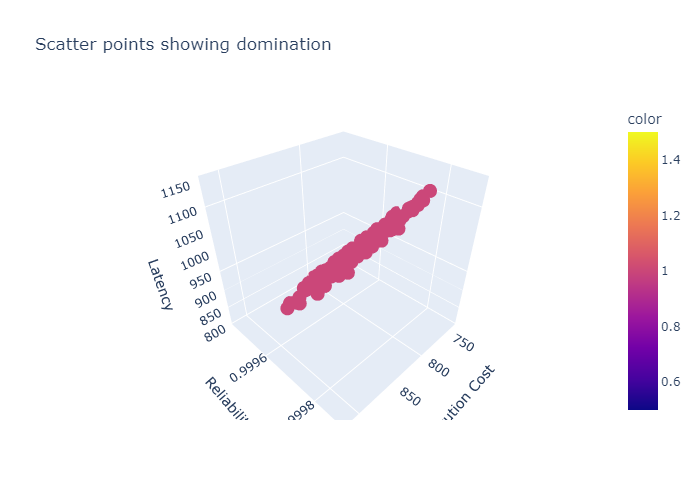
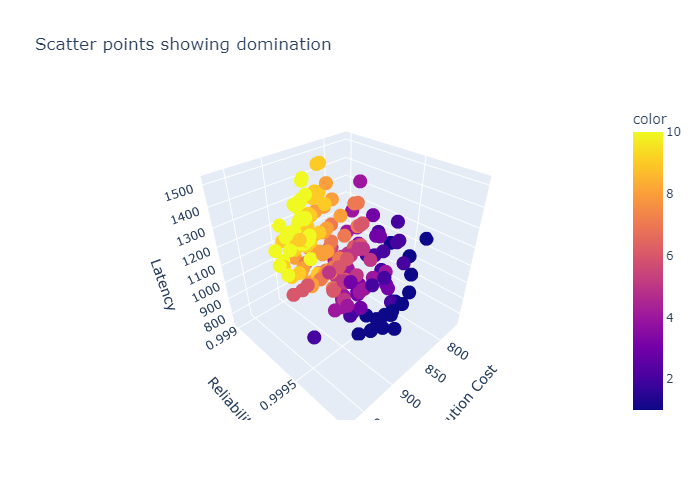
[EDIT] Display best solution for the 3 objectives

diff --git a/genetique.py b/genetique.py
@@ -305,6 +305,36 @@ def show_Domination_Plot(population, removeParameter=False, save= False):
     else:
         show_Domination_Plot_3D(population, save)
 
+# Select and display the best solution for one of the objectives
+def display_best_solution_by_objective(solutions,objective):
+    best_solution_for_objective = solutions[0]
+
+    if objective == "CostEx":
+        for solution in solutions:
+            if solution.CostEx < best_solution_for_objective.CostEx:
+                best_solution_for_objective = solution
+            elif solution.CostEx == best_solution_for_objective.CostEx:
+                if (solution.Latency < best_solution_for_objective.Latency or solution.Reliability > best_solution_for_objective.Reliability):
+                    best_solution_for_objective = solution
+
+    elif objective == "Latency":
+        for solution in solutions:
+            if solution.Latency < best_solution_for_objective.Latency:
+                best_solution_for_objective = solution
+            elif solution.Latency == best_solution_for_objective.Latency:
+                if (solution.CostEx < best_solution_for_objective.CostEx or solution.Reliability > best_solution_for_objective.Reliability):
+                    best_solution_for_objective = solution
+
+    elif objective == "Reliability":
+        for solution in solutions:
+            if solution.Reliability > best_solution_for_objective.Reliability:
+                best_solution_for_objective = solution
+            elif solution.Reliability == best_solution_for_objective.Reliability:
+                if (solution.CostEx < best_solution_for_objective.CostEx or solution.Latency > best_solution_for_objective.Latency):
+                    best_solution_for_objective = solution
+    
+    return best_solution_for_objective
+
 def NSGA_II(population_size=200,nb_generations=100, removeParameter=False, show_convergence=False):
     Tasks,VMs=generateTasksAndVMs()
     population=generate_random_population(population_size,Tasks,VMs)
@@ -335,10 +365,25 @@ def NSGA_II(population_size=200,nb_generations=100, removeParameter=False, show_
     print(population[population_size//2].CostEx,population[population_size//2].Reliability,population[population_size//2].Latency)
     population[population_size-1].show()
     print(population[population_size-1].CostEx,population[population_size-1].Reliability,population[population_size-1].Latency)
-    
+    print()
+
+    best_costEx = display_best_solution_by_objective(population,"CostEx")
+    best_latency = display_best_solution_by_objective(population,"Latency")
+    best_reliability = display_best_solution_by_objective(population,"Reliability")
+    print("best solution for CostEx is : ")
+    best_costEx.show()
+    print(best_costEx.CostEx,best_costEx.Reliability,best_costEx.Latency)
+    print("best solution for Latency is : ")
+    best_latency.show()
+    print(best_latency.CostEx,best_latency.Reliability,best_latency.Latency)
+    print("best solution for Reliability is : ")
+    best_reliability.show()
+    print(best_reliability.CostEx,best_reliability.Reliability,best_reliability.Latency)
+
 def main ():
-    NSGA_II(removeParameter="CostEx",show_convergence=True)
-    NSGA_II(removeParameter="Reliability")
-    NSGA_II(removeParameter="Latency")
+    #NSGA_II(removeParameter="CostEx",show_convergence=True)
+    #NSGA_II(removeParameter="Reliability")
+    #NSGA_II(removeParameter="Latency")
     NSGA_II()
     
+main()
